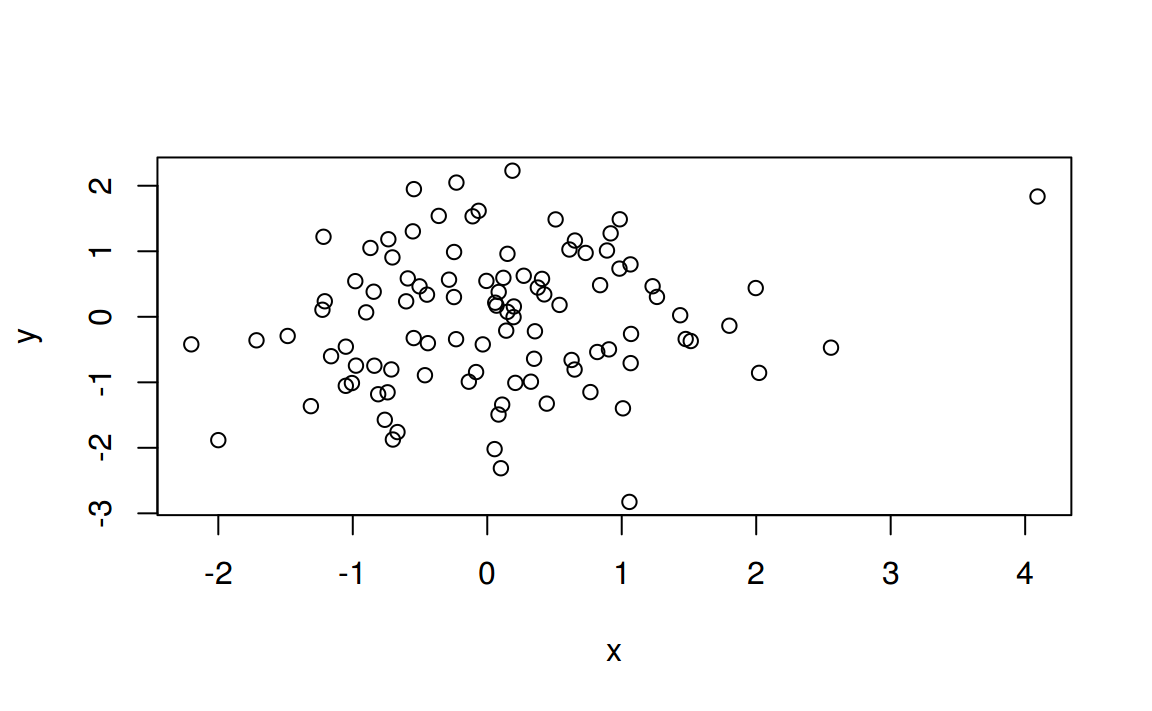
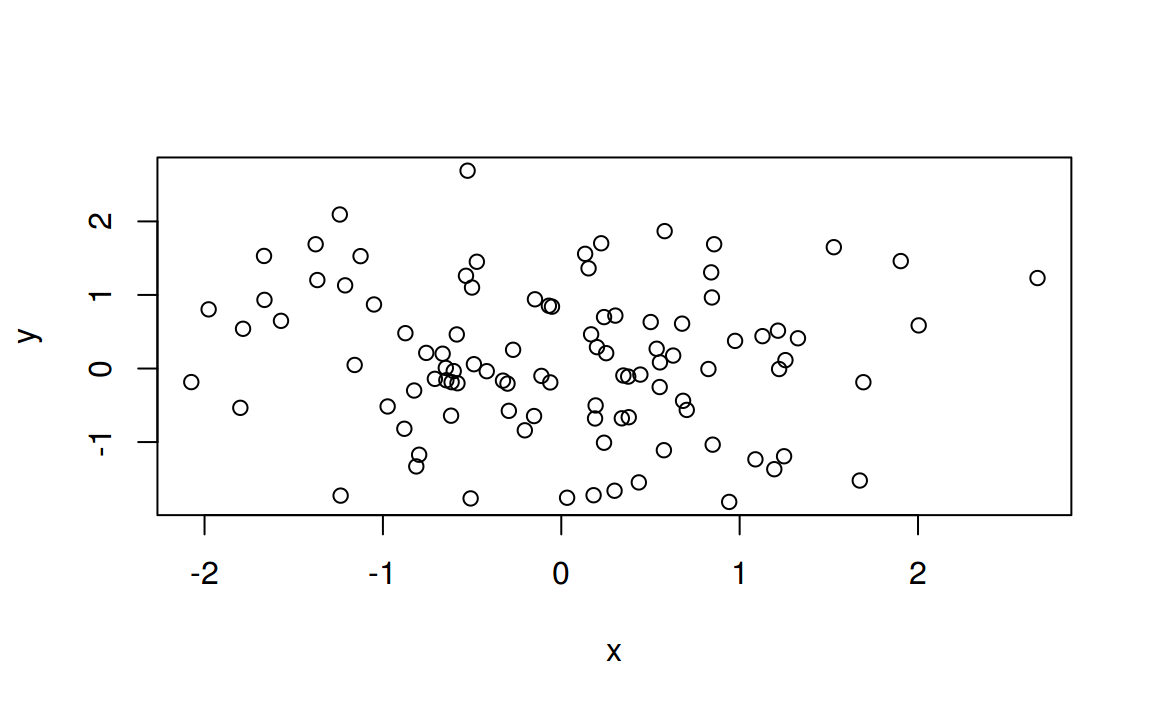
update

diff --git a/MLcourse/_book/pw-1.html b/MLcourse/_book/pw-1.html
@@ -185,10 +185,29 @@ x+y
 <p>Hitting the <em>up arrow</em> multiple times will display the previous commands, which can then be edited. This is useful since one often wishes to repeat a similar command.</p>
 <p>The <code>ls()</code> function allows us to look at a list of all of the objects, such <code>ls()</code> as data and functions, that we have saved so far. The <code>rm()</code> function can be used to delete any object that we don’t want.</p>
 <div class="sourceCode"><pre class="sourceCode r"><code class="sourceCode r"><span class="kw">ls</span>()
-<span class="co">#ans&gt; [1] &quot;A&quot;      &quot;Auto&quot;   &quot;B&quot;      &quot;myDf&quot;   &quot;myList&quot; &quot;vec&quot;    &quot;x&quot;      &quot;y&quot;</span>
+<span class="co">#ans&gt;  [1] &quot;A&quot;                        &quot;Auto&quot;                    </span>
+<span class="co">#ans&gt;  [3] &quot;B&quot;                        &quot;error&quot;                   </span>
+<span class="co">#ans&gt;  [5] &quot;error_squared&quot;            &quot;EU&quot;                      </span>
+<span class="co">#ans&gt;  [7] &quot;model&quot;                    &quot;MSE&quot;                     </span>
+<span class="co">#ans&gt;  [9] &quot;myDf&quot;                     &quot;myList&quot;                  </span>
+<span class="co">#ans&gt; [11] &quot;names.available.packages&quot; &quot;Rcmdr.related.packages&quot;  </span>
+<span class="co">#ans&gt; [13] &quot;test&quot;                     &quot;testing_data&quot;            </span>
+<span class="co">#ans&gt; [15] &quot;train&quot;                    &quot;training_data&quot;           </span>
+<span class="co">#ans&gt; [17] &quot;variables&quot;                &quot;vec&quot;                     </span>
+<span class="co">#ans&gt; [19] &quot;x&quot;                        &quot;y&quot;                       </span>
+<span class="co">#ans&gt; [21] &quot;y_hat&quot;</span>
 <span class="kw">rm</span>(x)
 <span class="kw">ls</span>()
-<span class="co">#ans&gt; [1] &quot;A&quot;      &quot;Auto&quot;   &quot;B&quot;      &quot;myDf&quot;   &quot;myList&quot; &quot;vec&quot;    &quot;y&quot;</span></code></pre></div>
+<span class="co">#ans&gt;  [1] &quot;A&quot;                        &quot;Auto&quot;                    </span>
+<span class="co">#ans&gt;  [3] &quot;B&quot;                        &quot;error&quot;                   </span>
+<span class="co">#ans&gt;  [5] &quot;error_squared&quot;            &quot;EU&quot;                      </span>
+<span class="co">#ans&gt;  [7] &quot;model&quot;                    &quot;MSE&quot;                     </span>
+<span class="co">#ans&gt;  [9] &quot;myDf&quot;                     &quot;myList&quot;                  </span>
+<span class="co">#ans&gt; [11] &quot;names.available.packages&quot; &quot;Rcmdr.related.packages&quot;  </span>
+<span class="co">#ans&gt; [13] &quot;test&quot;                     &quot;testing_data&quot;            </span>
+<span class="co">#ans&gt; [15] &quot;train&quot;                    &quot;training_data&quot;           </span>
+<span class="co">#ans&gt; [17] &quot;variables&quot;                &quot;vec&quot;                     </span>
+<span class="co">#ans&gt; [19] &quot;y&quot;                        &quot;y_hat&quot;</span></code></pre></div>
 </div>
 <div id="vectors" class="section level3">
 <h3><span class="header-section-number">1.8.2</span> Vectors</h3>
@@ -393,8 +412,8 @@ y=<span class="kw">rnorm</span>(<span class="dv">100</span>)
 
 <span class="co"># Sampling from a Normal - 100 random points from a N(0, 1)</span>
 <span class="kw">rnorm</span>(<span class="dt">n =</span> <span class="dv">10</span>, <span class="dt">mean =</span> <span class="dv">0</span>, <span class="dt">sd =</span> <span class="dv">1</span>)
-<span class="co">#ans&gt;  [1]  0.5736  0.3045  1.7334  0.2014  0.5361 -0.1962 -1.2721 -1.9645</span>
-<span class="co">#ans&gt;  [9]  0.0869 -0.7063</span>
+<span class="co">#ans&gt;  [1]  1.4595 -1.6533 -0.2031  0.6185  0.5971  0.7490 -0.2393 -1.1296</span>
+<span class="co">#ans&gt;  [9]  0.6312  0.0291</span>
 
 <span class="co"># If you want to have always the same result, set the seed of the random number</span>
 <span class="co"># generator</span>
